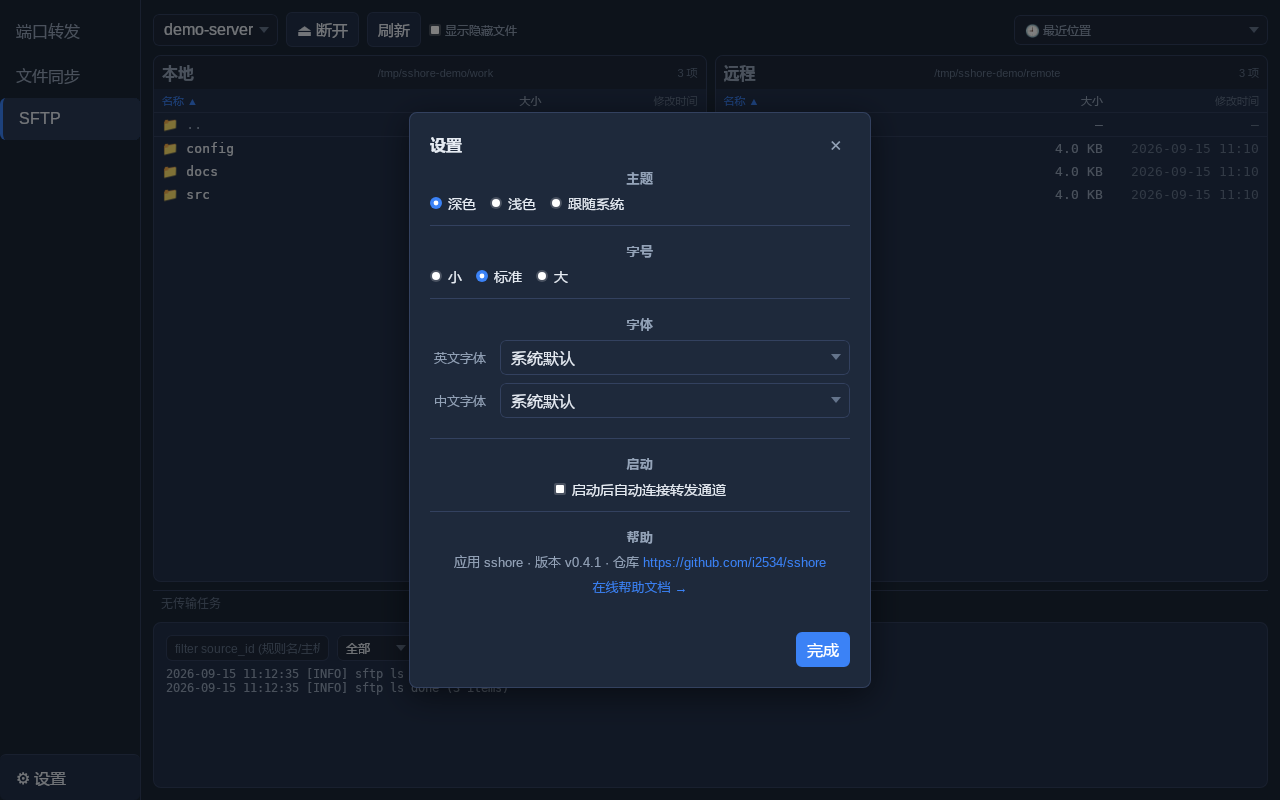
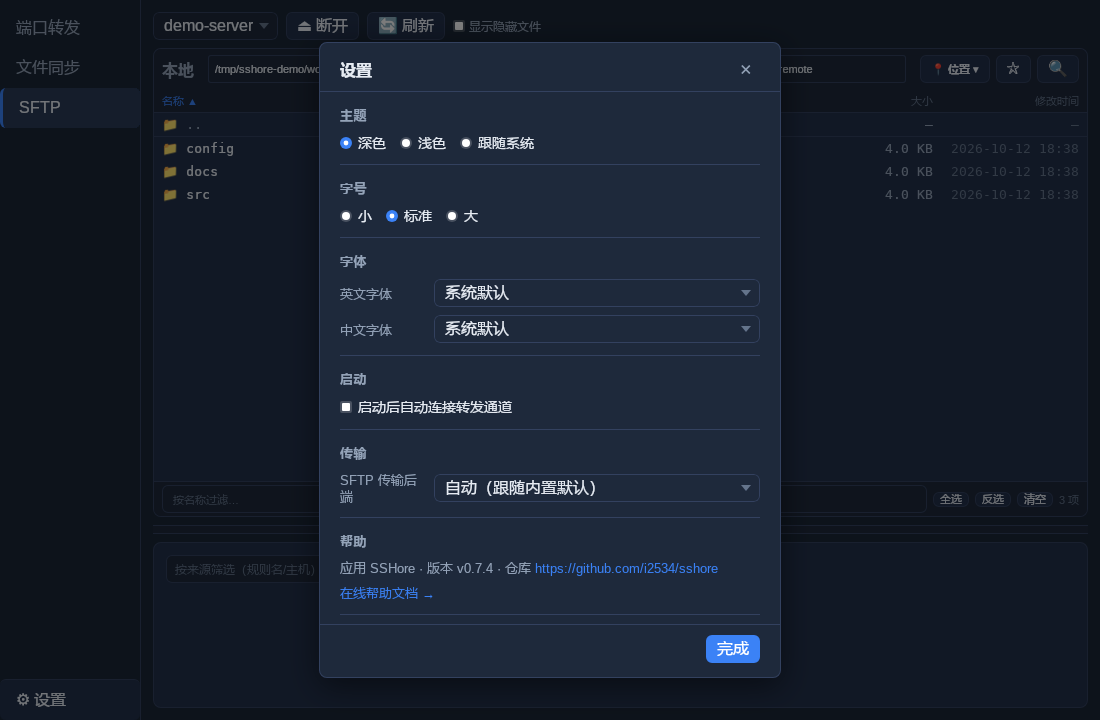
docs: 重拍界面截图并补更新区配图 —— 文档同步到 v0.7.4
旧的 4 张界面预览图拍于 2026-09-15，早于「更新与升级」功能与 SFTP 面板改版，
与当前 v0.7.4 界面已经对不上：设置页没有版本号与更新区，SFTP 面板缺少路径栏
可编辑、过滤栏、传输队列等改动。

- 用一次性本地 sshd + 演示数据（与 README 既有声明一致，未使用真实主机）重拍
  forward / sync / sftp / settings 四张图，统一 1100×720 PNG
- 新增 docs/images/update.png：「设置 → 更新」区块（当前版本、发现的新版本、
  下载/跳过/打开发布页、更新源）—— README 的「更新与升级」章节原先没有配图
- README.md / README.en.md：更新章节各插入该图；手动升级示例里的 v0.7.0 改为 v0.7.4
- docs/windows-acceptance-checklist.md：新增 §8「应用内升级链路」，把两个只在
  Windows 真机端到端才暴露的缺陷（归档必须按内容魔数判定、update.cmd 必须纯
  ASCII）固化成必验项与判据；「记录模板」顺延为 §9 并补勾选项；修正指向
  .superpowers/（本地工作目录，不入库）的失效引用

说明：sync.png 拍的是轮询模式（卡片徽章「轮询 5s」）。在该工作台上 inotify
监控未能触发后续变更下载，改用 force_poll 后正常；根因未查明，故不写入结论。

diff --git a/README.en.md b/README.en.md
@@ -41,6 +41,8 @@ sshore polls the **update source** for the latest Release at the configured inte
 badge on the sidebar "⚙ Settings" button when a newer version exists; checking, downloading and
 verification progress are all visible under Settings → Updates.
 
+![Settings → Updates: current version, available release, download/skip/open-release-page and update source](docs/images/update.png)
+
 ### Update source and verification
 
 - The default source is the GitHub API: `https://api.github.com/repos/i2534/sshore/releases/latest`
@@ -75,7 +77,7 @@ verification progress are all visible under Settings → Updates.
 
 1. When a newer version exists, click "Download update": download the archive → compare the SHA256 from
    `checksums.txt` → unpack the pending file (same directory as the current binary, named after the
-   **target version**, e.g. `sshore.v0.7.0` / `sshore.v0.7.0.exe`) → write the matching `.sha256`.
+   **target version**, e.g. `sshore.v0.7.4` / `sshore.v0.7.4.exe`) → write the matching `.sha256`.
    Unpacking only accepts the whitelisted `sshore` / `sshore.exe` and rejects symlinks and path traversal.
 2. Click "Restart and upgrade": re-hash, write a one-shot upgrade script, start it detached, then quit.
 3. The script waits for the old process to exit → backs up the current binary as `sshore.<current-version>`
@@ -112,7 +114,7 @@ confirmation once more.
 # Linux: unpack and overwrite in the directory holding sshore (directories are created first
 # so the block is paste-ready)
 mkdir -p /tmp/upd ~/bin
-tar -xzf sshore-v0.7.0-linux-amd64.tar.gz -C /tmp/upd
+tar -xzf sshore-v0.7.4-linux-amd64.tar.gz -C /tmp/upd
 install -m 0755 /tmp/upd/sshore ~/bin/sshore
 ```
 
